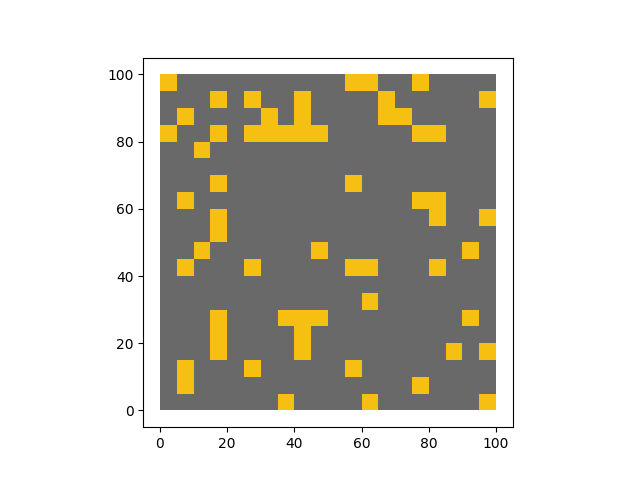
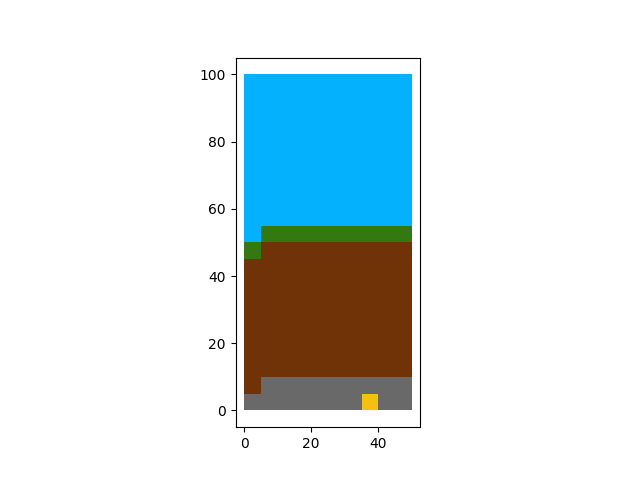
formattooor

diff --git a/cairo/tests/viz.py b/cairo/tests/viz.py
@@ -32,6 +32,9 @@ async def contract_factory():
     return contract
 
 
+Y = 1
+Z = 90
+
 @pytest.mark.asyncio
 async def test_create_viz(contract_factory):
     contract = contract_factory
@@ -41,8 +44,8 @@ async def test_create_viz(contract_factory):
 
     BLOCKS_PER_CALL = 20
 
-    for i in range(20):
-        blocks = (await contract.get_blocks(i,1,1, BLOCKS_PER_CALL).invoke()).result.block_states
+    for i in range(10):
+        blocks = (await contract.get_blocks(i,Y,Z, BLOCKS_PER_CALL).invoke()).result.block_states
         print(blocks)
         for j in range(BLOCKS_PER_CALL):
             square = plt.Rectangle((5*i,5*j), 5, 5, fc=colors[blocks[j] - 1])
